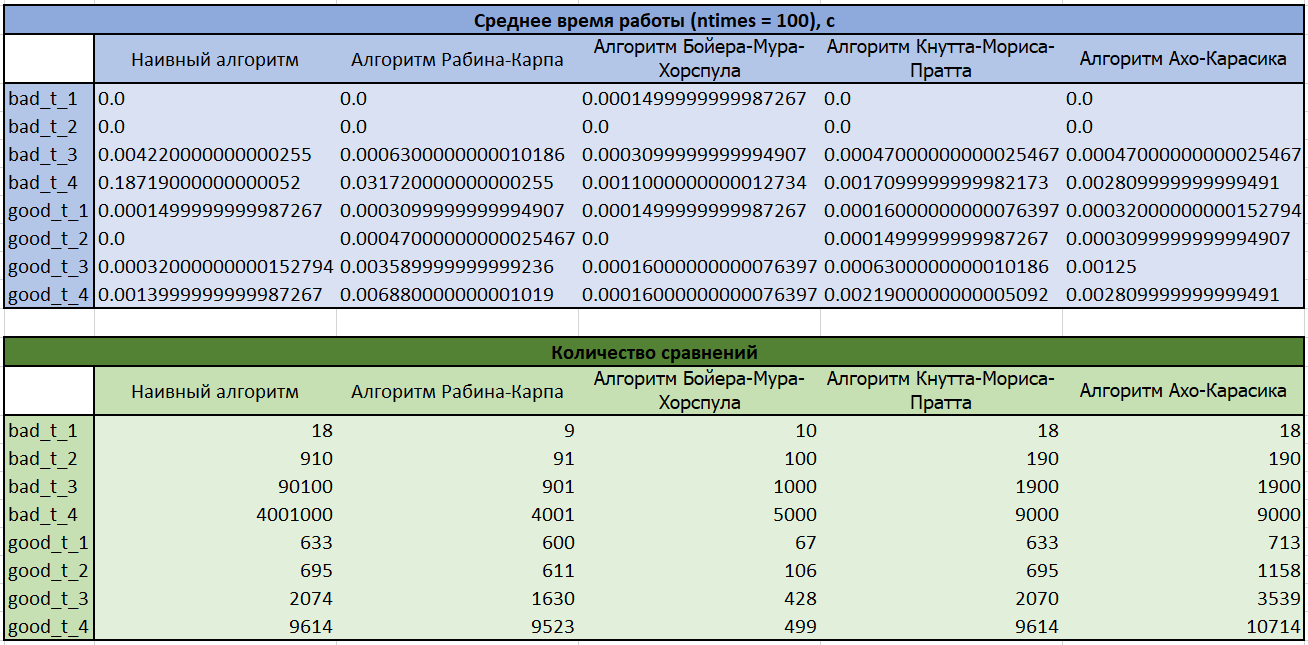
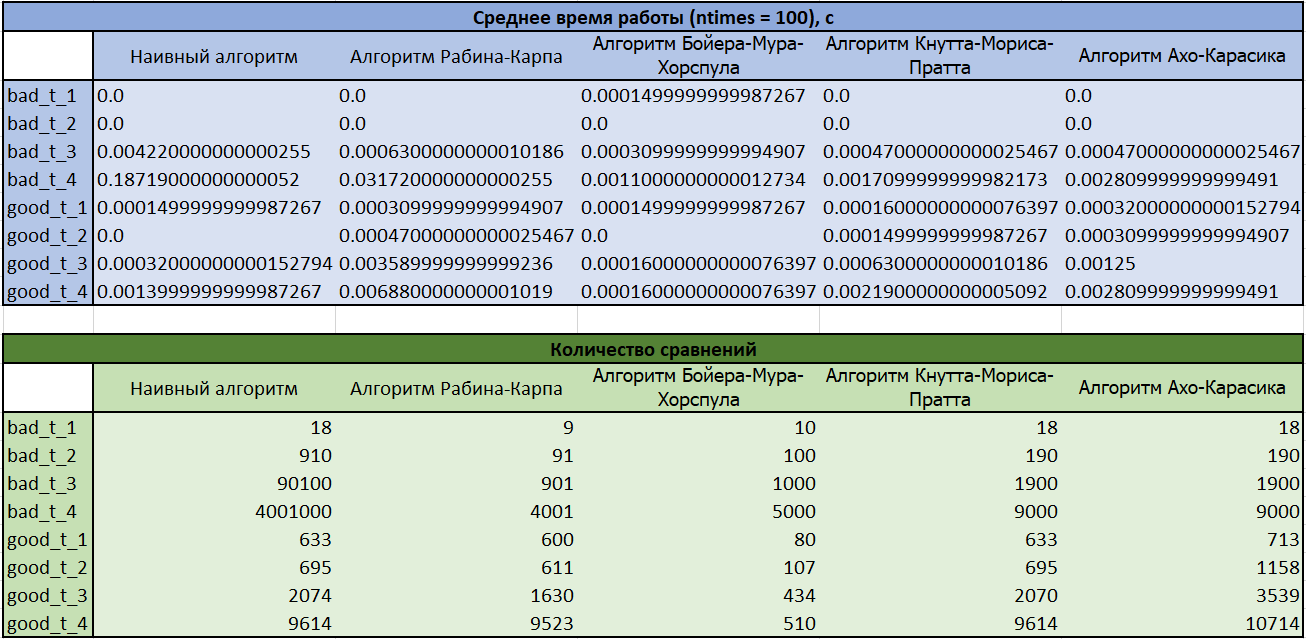
lab_1 bugfix, report update, tests added

Changed region(s): [[0.0, 0.0, 1.0, 0.5352], [0.0, 0.5352, 1.0, 1.0], [0.5819, 0.7433, 0.6432, 0.8326]]

diff --git a/lab_1/main.py b/lab_1/main.py
@@ -17,17 +17,19 @@ def unit_tests() -> None:
         ('qwerty', 'wer', 1),
         ('qwerty', 'ert', 2),
         ('qwerty', 'rty', 3),
+        ('bcaa', 'caa', 1),
+        ('bcaa', 'aa', 2),
     ]
 
     for i, (text, pattern, answer_index) in enumerate(testcases):
         print(f'TESTCASE {i:#>2}: {text=} {pattern=}')
         for module in modules:
             index, comparisons = module.search(text, pattern)
-            if index != answer_index:
-                print(f'    ### ERROR: wrong index substring index. {answer_index} expected. ###')
             print(f'{module.__name__:-<35}')
-            print(f'     substring index    : {index:5}')
-            print(f'     comparinsons count : {comparisons:5}')
+            if index != answer_index:
+                print(f'    ### ERROR: wrong index substring index. {answer_index} expected.')
+            print(f'    substring index    : {index:5}')
+            print(f'    comparinsons count : {comparisons:5}')
         print()
 
 
@@ -79,8 +81,8 @@ def benchmark(module, name: str, num: int, iters: int = 100) -> None:
     print(text_filename, module.__name__, comparisons, mean_time)
 
 if __name__ == '__main__':
-    # aho_corasick_unit_tests()
-    # unit_tests()
+    aho_corasick_unit_tests()
+    unit_tests()
     
     modules = [naive, rabin_karp, boyer_moore, knuth_moris_pratt, aho_corasick]
     benchmark_names = ['bad', 'good']

diff --git a/lab_1/algorithms/boyer_moore.py b/lab_1/algorithms/boyer_moore.py
@@ -22,7 +22,7 @@ def search(text: str, pattern: str) -> Tuple[int, int]:
         for j in range(pattern_size - 1, -1, -1):
             comparisons_count += 1
             if text[i + j] != pattern[j]:
-                i += shift_distance[ord(text[i + j])]
+                i += shift_distance[ord(text[pattern_size - 1 + i])]
                 founded = False
                 break
         if founded:
